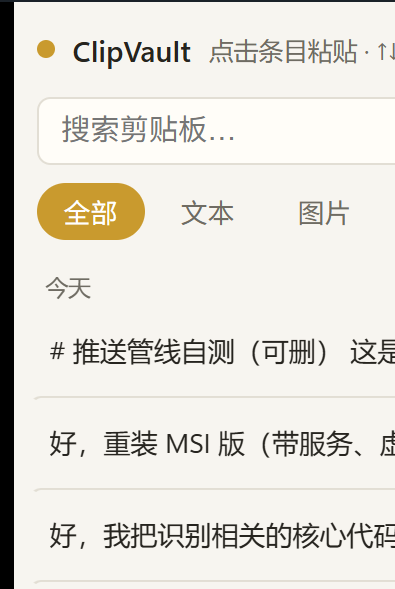
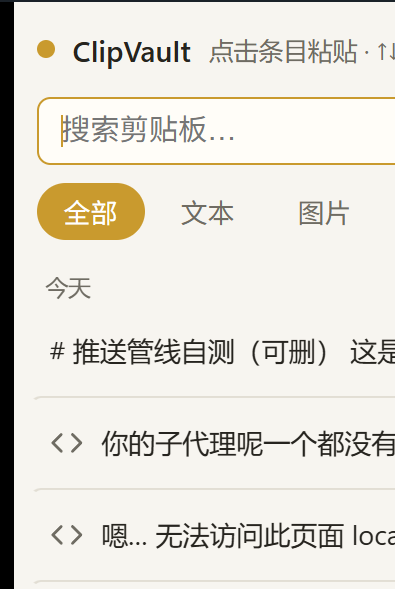
panel: autofocus search box on summon (blinking caret cue, like Win+V); accent caret color

diff --git a/src/App.vue b/src/App.vue
@@ -267,7 +267,10 @@ onMounted(async () => {
     })
   }
   unlisteners.push(await listen('clips-changed', refresh))
-  unlisteners.push(await listen('panel-shown', refresh))
+  unlisteners.push(await listen('panel-shown', () => {
+    refresh()
+    nextTick(() => document.querySelector('.search')?.focus())
+  }))
   window.addEventListener('keydown', onKey)
   refresh()
   if (!isZoomWin) {
@@ -326,7 +329,7 @@ onBeforeUnmount(() => {
     </div>
 
     <div class="search-row" v-if="!showStats && !showSettings">
-      <input class="search" v-model="query" @input="onSearch" :placeholder="t('search')" />
+      <input ref="searchEl" class="search" v-model="query" @input="onSearch" :placeholder="t('search')" />
       <button v-if="query" class="search-clear" @click="clearSearch" title="Clear">
         <svg viewBox="0 0 24 24" width="13" height="13" fill="none" stroke="currentColor" stroke-width="2" stroke-linecap="round"><path d="M18 6 6 18"/><path d="m6 6 12 12"/></svg>
       </button>
@@ -447,7 +450,7 @@ onBeforeUnmount(() => {
 .search-clear { position: absolute; right: 18px; top: 50%; transform: translateY(-50%); border: 0; background: transparent; color: var(--fg-dim); width: 22px; height: 22px; border-radius: 6px; cursor: pointer; display: inline-flex; align-items: center; justify-content: center; }
 .search-clear:hover { background: var(--bg-hover); color: var(--fg); }
 .search { width: 100%; padding: 7px 30px 7px 10px; background: var(--bg-2); color: var(--fg); border: 1px solid var(--border); border-radius: 6px; outline: none; font-size: 13px; }
-.search:focus { border-color: var(--accent-dim); }
+.search:focus { border-color: var(--accent); caret-color: var(--accent); }
 .tabs { display: flex; gap: 4px; padding: 4px 10px; flex-wrap: wrap; }
 .tab { border: 0; background: transparent; color: var(--fg-dim); padding: 4px 12px; border-radius: 999px; cursor: pointer; font-size: 12px; }
 .tab:hover { background: var(--bg-hover); }
